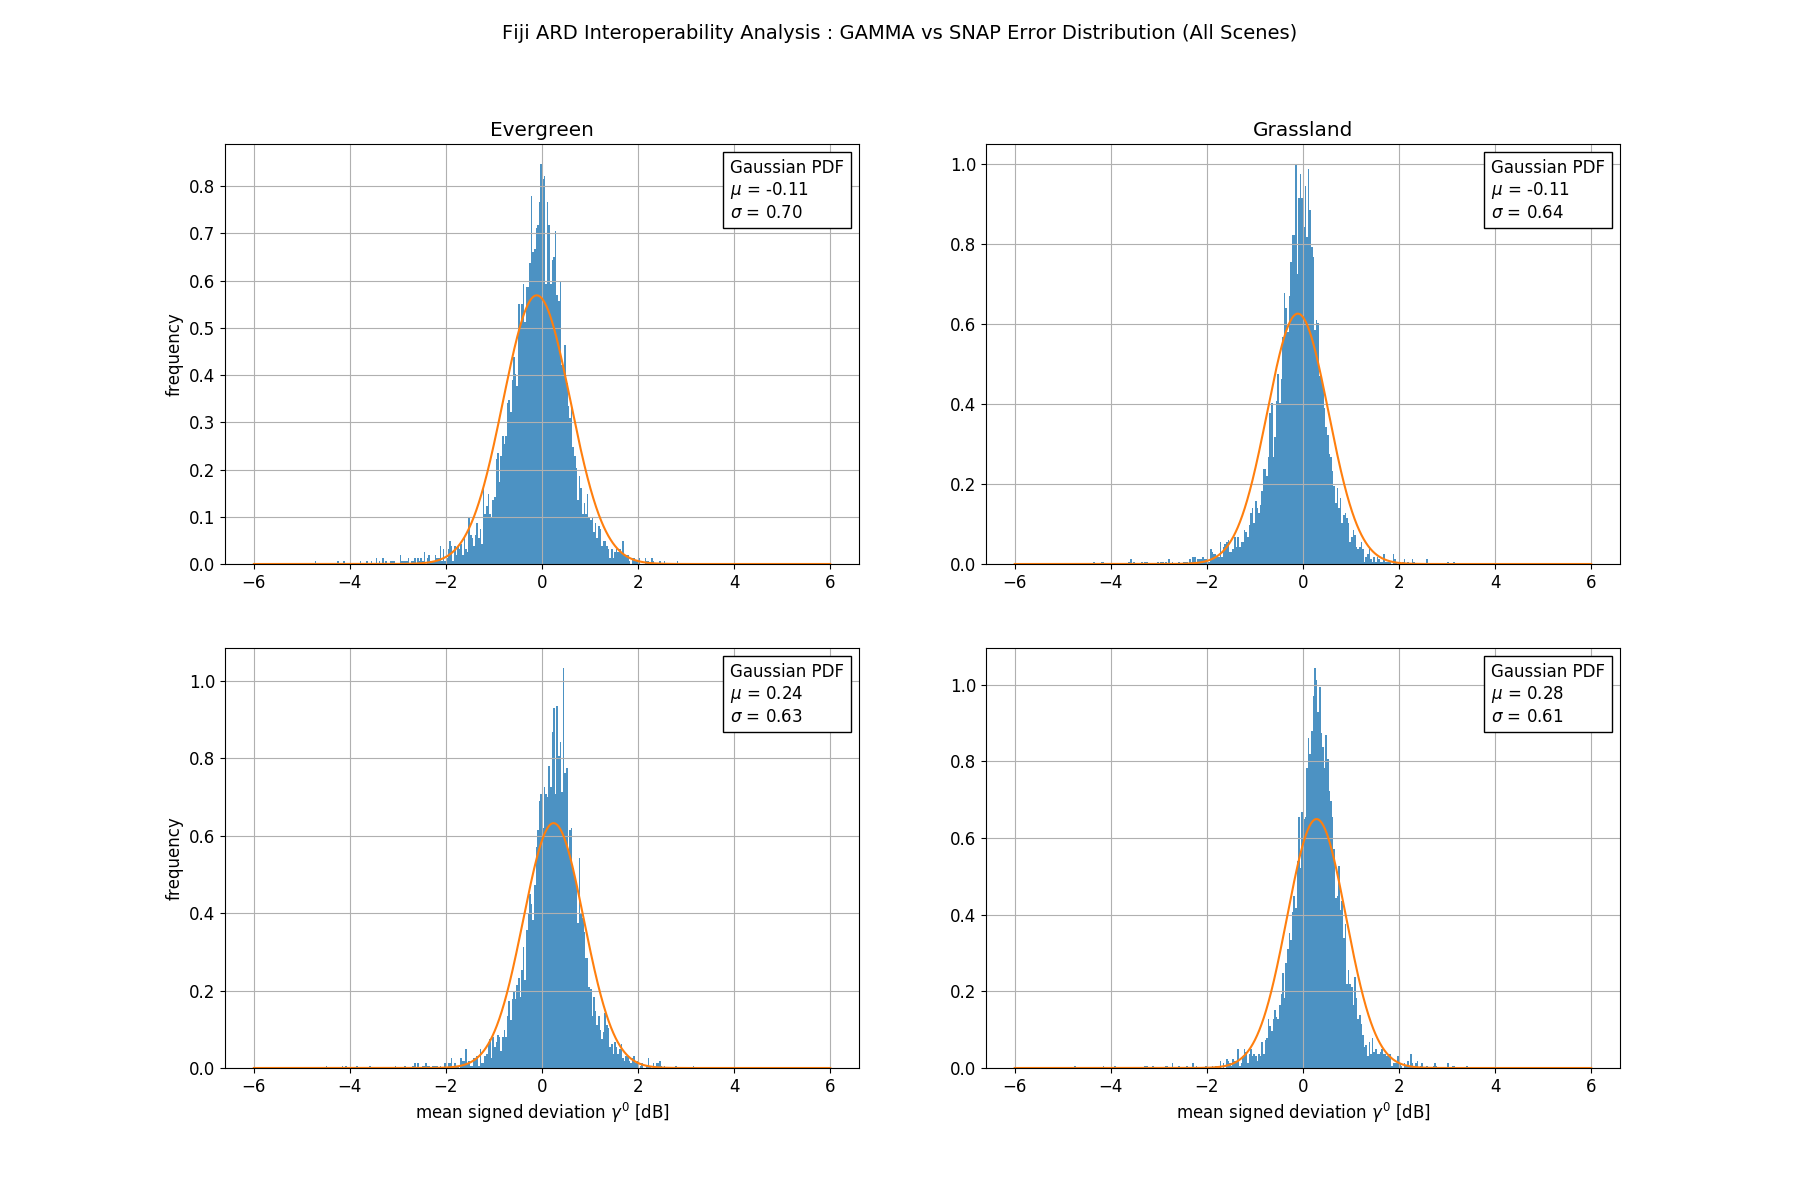
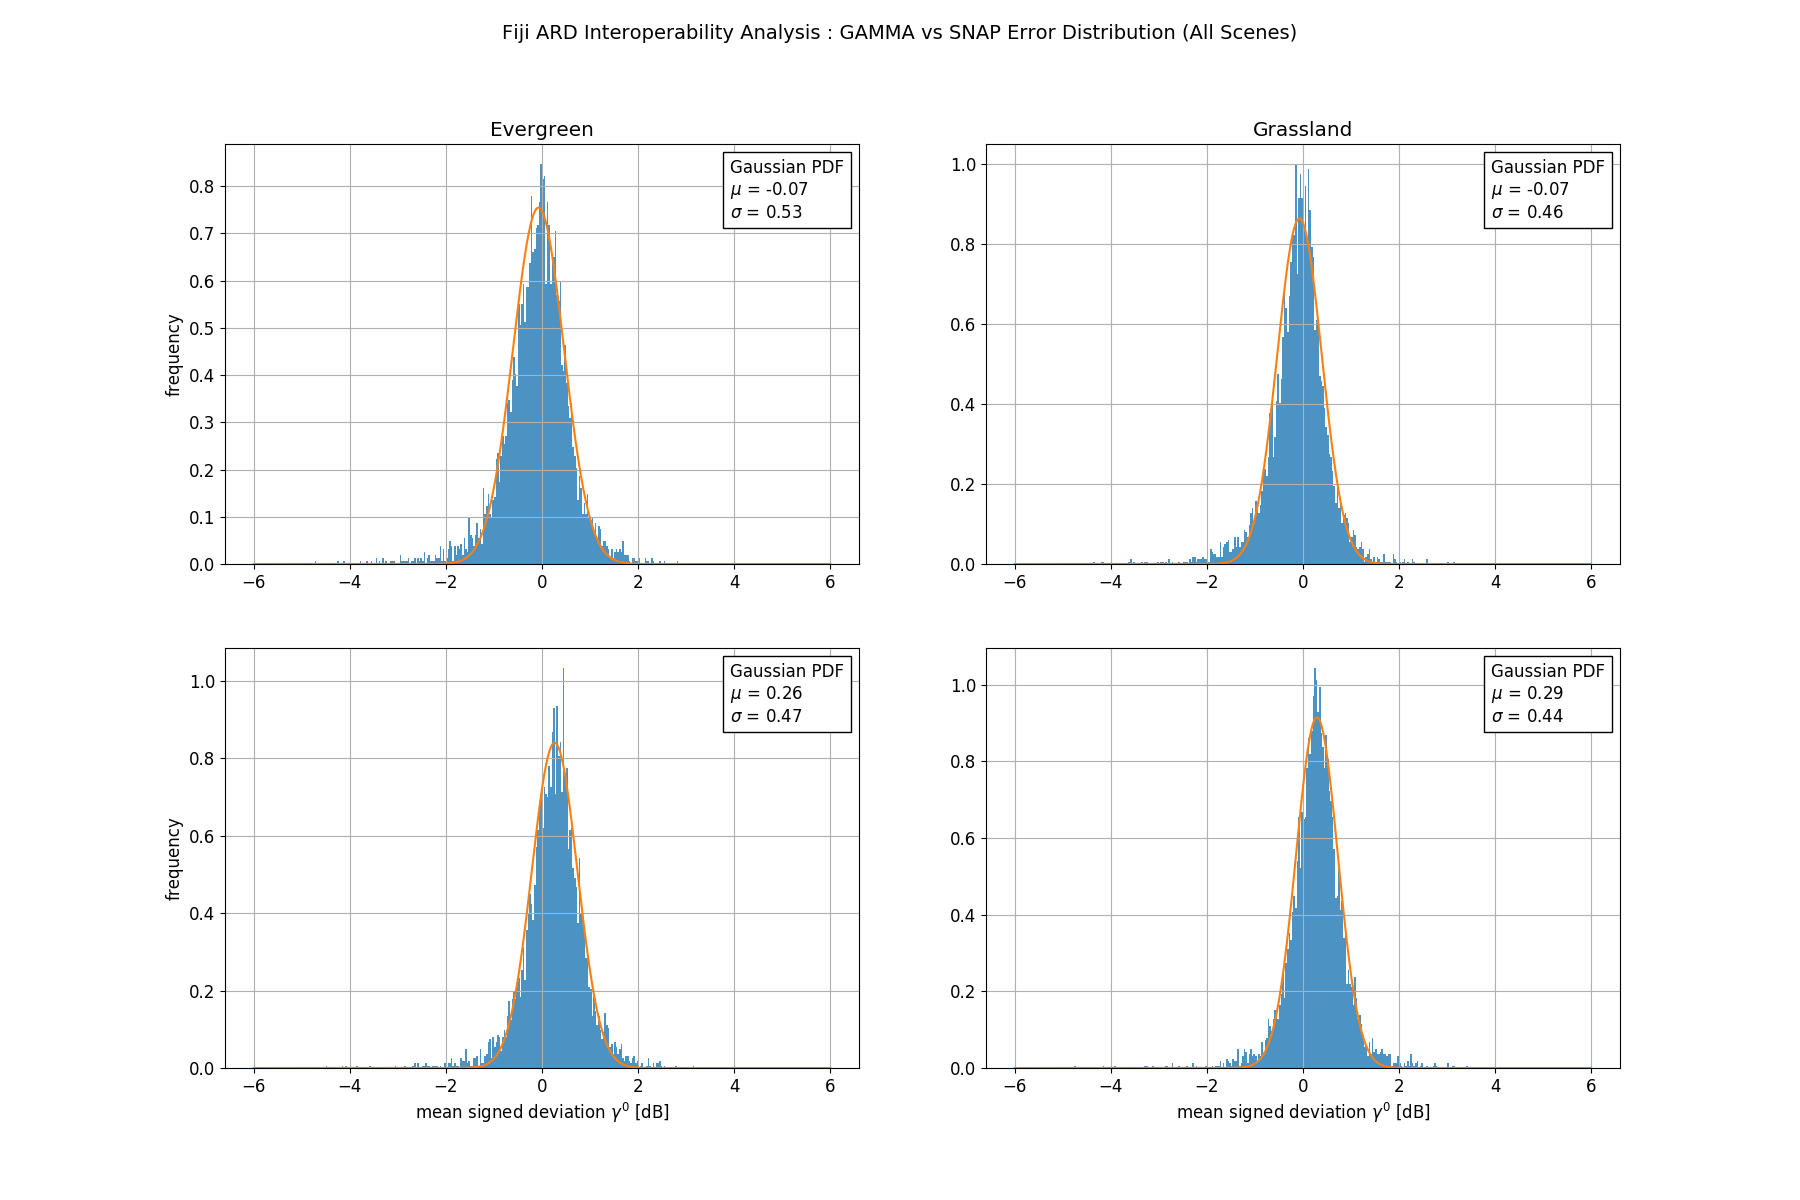
Updated histogram error plots with outlier removal

diff --git a/code/plots/histogram-error.py b/code/plots/histogram-error.py
@@ -21,7 +21,7 @@ from scipy import stats
 from util import saveFile
 
 matplotlib.rcParams['figure.figsize'] = (18, 12)
-matplotlib.rcParams['font.size'] = 8
+matplotlib.rcParams['font.size'] = 12
 
 # supported land cover classes 
 landcover_types = { 'forest', 'grassland', 'sugarcane', 'evergreen' }
@@ -138,6 +138,11 @@ def parseArguments(args=None):
     return parser.parse_args(args)
 
 
+# reject outliers
+def reject_outliers(data, m=2):
+    return data[abs(data - np.mean(data)) < m * np.std(data)]
+
+
 # parse arguments
 args = parseArguments( sys.argv[1:] )
 plist = { 'orbit' : args.orbit.upper(), 'product' : args.product, 'db' : args.database, 'max_variance' : 4.0, 'schema' : 'error' }
@@ -192,7 +197,7 @@ for pol in args.polarization:
             lnspc = np.linspace(xmin, xmax, len(mean))
 
             # get normal distribution stats
-            pdf_mean, pdf_sigma = stats.norm.fit( mean )
+            pdf_mean, pdf_sigma = stats.norm.fit( reject_outliers( mean ) )
             pdf_g = stats.norm.pdf(lnspc, pdf_mean, pdf_sigma)
             plt.plot(lnspc, pdf_g, label="Gaussian")
 
@@ -216,5 +221,5 @@ for pol in args.polarization:
 saveFile( args, 'error-distribution' )
 
 # show plot
-#plt.show()
+plt.show()
 
